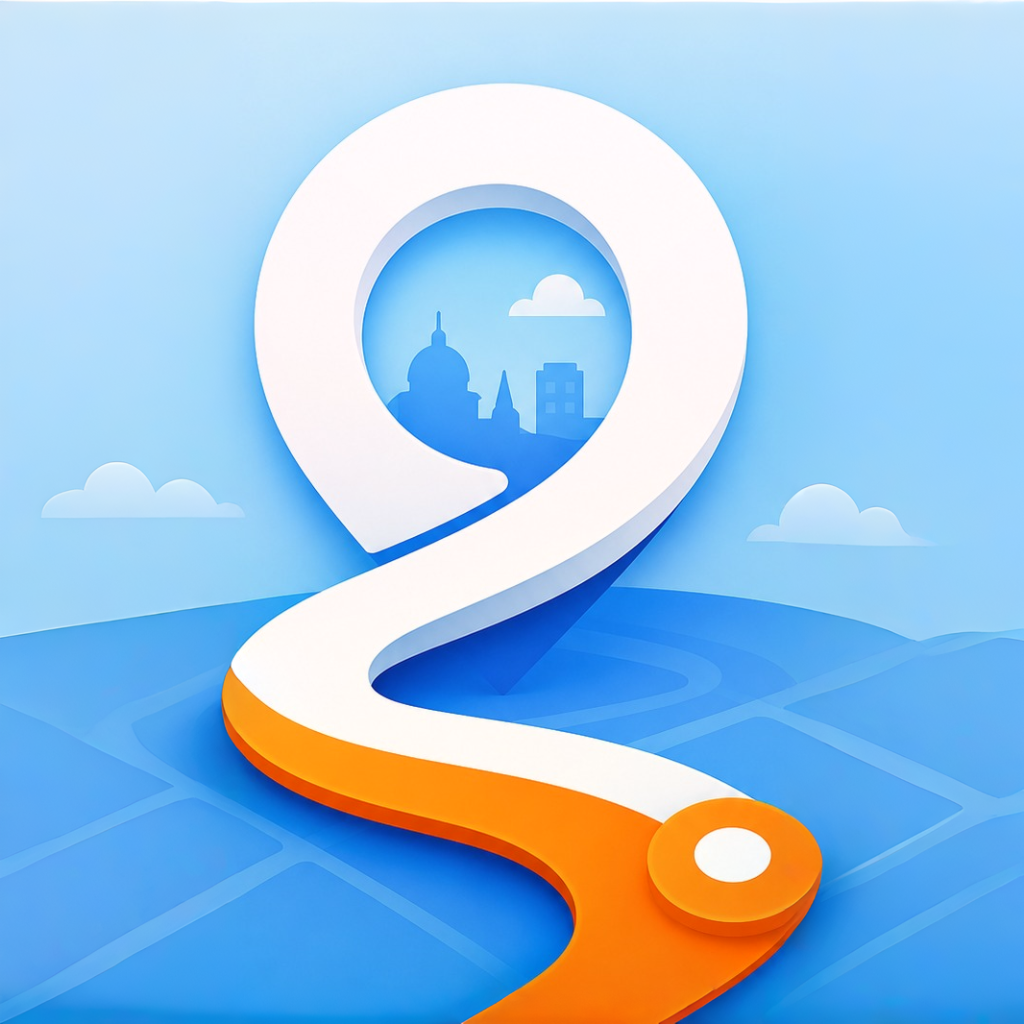
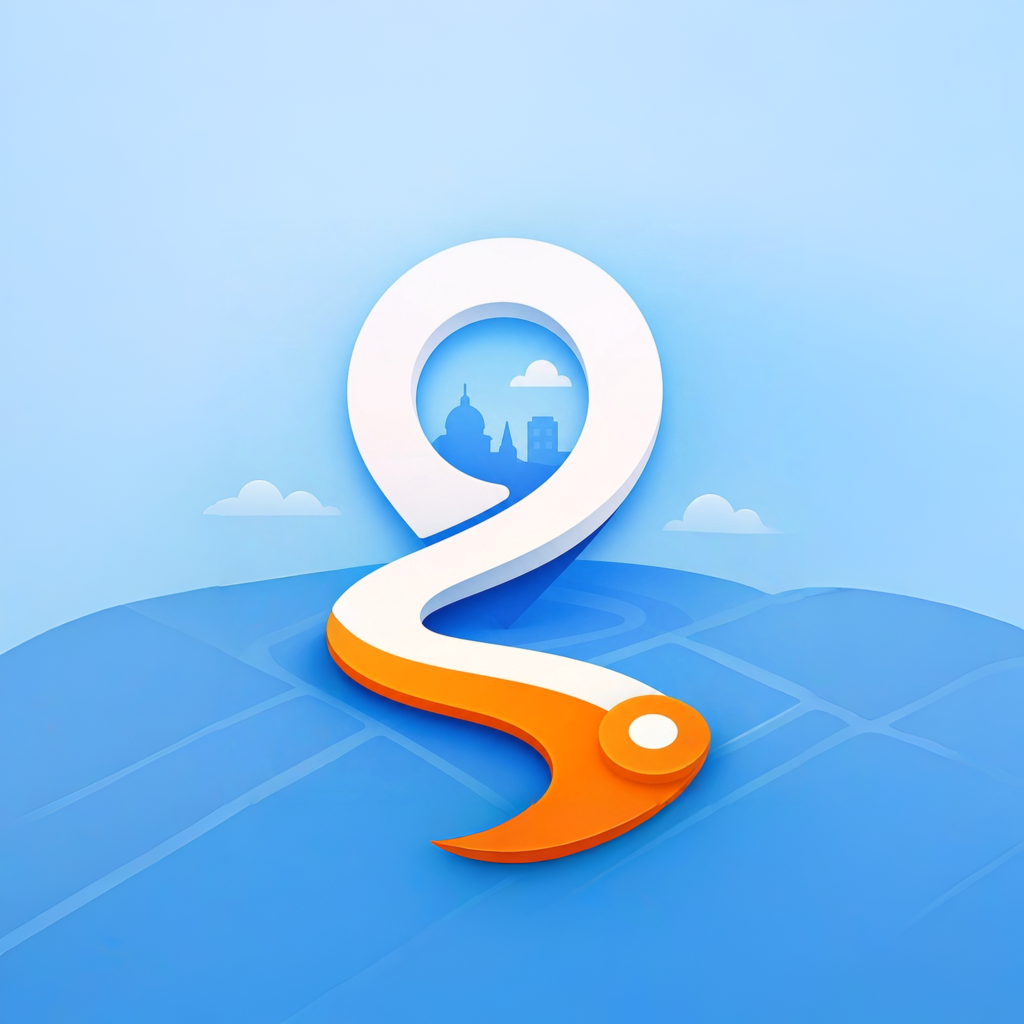
Add EAS configuration and update project settings
- Introduced `eas.json` for build profiles and configurations for development, preview, and production environments.
- Updated `app.config.js` to include EAS project ID and owner information.
- Added `credentials.json` to `.gitignore` to prevent local credential exposure.
- Enhanced `package.json` with new build scripts for Android and iOS using EAS.

diff --git a/app.config.js b/app.config.js
@@ -36,5 +36,9 @@ module.exports = {
   },
   extra: {
     googlePlacesApiKey: process.env.GOOGLE_PLACES_API_KEY,
+    eas: {
+      projectId: '223672ff-5c6c-410e-a7d2-733b07881c13',
+    },
   },
+  owner: 'jivko25',
 };